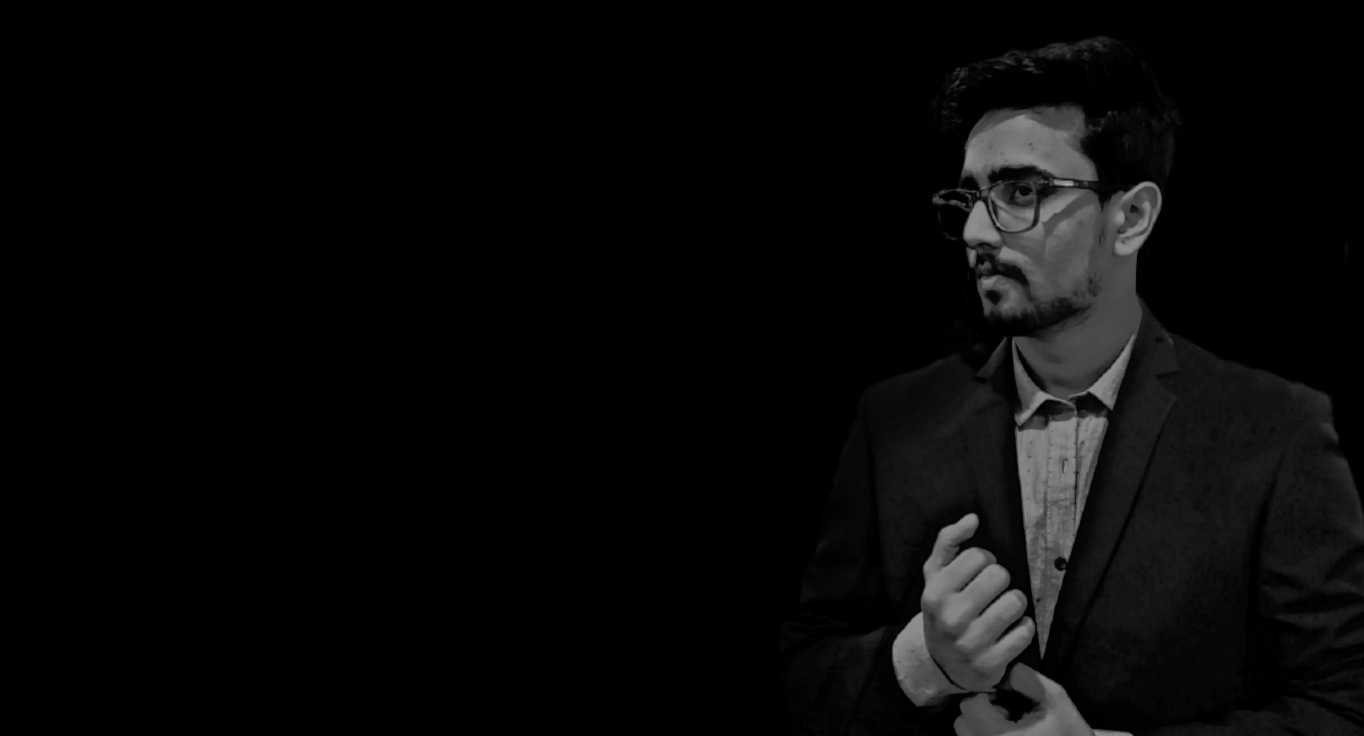
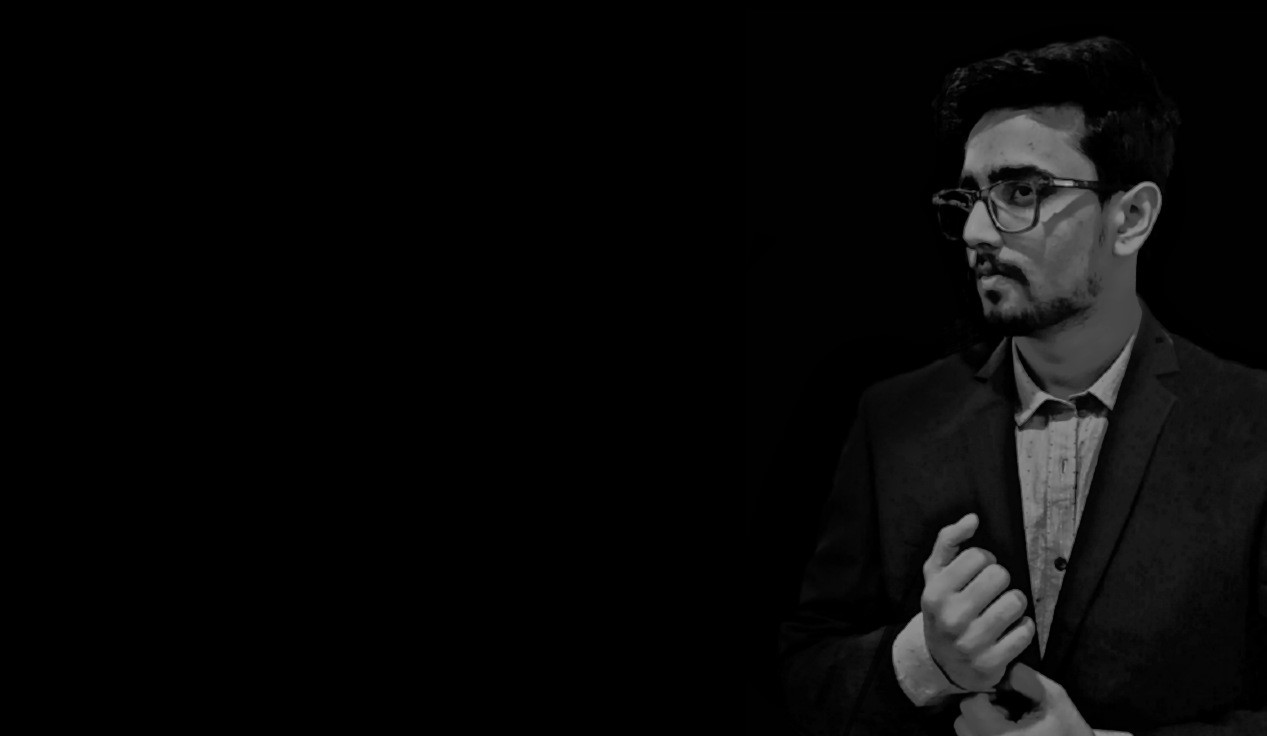
30/12/21

diff --git a/index.html b/index.html
@@ -60,7 +60,7 @@
         <a href="https://github.com/Atharva1802" class="twitter"><i class="bi bi-github"></i></a>
         <a href="https://discord.gg/CnmmhVcr" class="discord"><i class="bi bi-discord"></i></a>
         <a href="#" class="twitter"><i class="bi bi-twitter"></i></a>
-        <a href="#" class="instagram"><i class="bi bi-instagram"></i></a>
+        <a href="https://www.instagram.com/atharva1802/?utm_medium=copy_link" class="instagram"><i class="bi bi-instagram"></i></a>
         <a href="https://www.linkedin.com/in/atharva-bhawsar/" class="linkedin"><i class="bi bi-linkedin"></i></a>
       </div>
 
@@ -80,13 +80,13 @@
 
       <div class="row">
         <div class="col-lg-4" data-aos="fade-right">
-          <img src="assets/img/ab.jpg" class="img-fluid" alt="">
+          <img src="assets/img/me3.jpg" class="img-fluid" alt="">
         </div>
         <div class="col-lg-8 pt-4 pt-lg-0 content" data-aos="fade-left">
           <h3>UI/UX &amp; Junior Android Developer</h3>
           <p class="fst-italic">
-            I'm Atharva from India, I do Android Development and a little bit of Web Design, I really enjoy learning programming languages and frameworks. 
-            I also enjoy wireframing in UI, UX, and design in general. Looking forward to a valuable connect
+            Hi! I'm Atharva from India, I do Android Development and a little bit of Web Design, I really enjoy learning programming languages and frameworks. 
+            I also enjoy wireframing in UI, UX, and design in general. Looking forward to making a valuable connection.
           </p>
           <div class="row">
             <div class="col-lg-6">
@@ -106,9 +106,9 @@
             </div>
           </div>
           <p class="fst-italic">
-            I have a deep intrest in Android apps development and I'm actively looking for open source projects to work on,
+            I have a deep interest in Android apps development and I'm actively looking for open source projects to work on,
             I am very passionate about learning new technologies and softwares, and also I love to meet and connect with new people and
-            interact with them in a healthy progressive way.
+            interact with them in a healthy progressive way and try to learn more from them. 
           </p>
         </div>
       </div>
@@ -143,6 +143,12 @@
               <div class="progress-bar" role="progressbar" aria-valuenow="90" aria-valuemin="0" aria-valuemax="100"></div>
             </div>
           </div>
+          <div class="progress">
+            <span class="skill">Git <i class="val">80%</i></span>
+            <div class="progress-bar-wrap">
+              <div class="progress-bar" role="progressbar" aria-valuenow="80" aria-valuemin="0" aria-valuemax="100"></div>
+            </div>
+          </div>
 
           <div class="progress">
             <span class="skill">C/C++ <i class="val">70%</i></span>
@@ -168,11 +174,19 @@
               <div class="progress-bar" role="progressbar" aria-valuenow="80" aria-valuemin="0" aria-valuemax="100"></div>
             </div>
           </div>
+          
 
           <div class="progress">
             <span class="skill">WordPress/CMS <i class="val">95%</i></span>
             <div class="progress-bar-wrap">
               <div class="progress-bar" role="progressbar" aria-valuenow="95" aria-valuemin="0" aria-valuemax="100"></div>
+            </div>
+          </div>
+
+          <div class="progress">
+            <span class="skill">Adobe XD / Figma<i class="val">80%</i></span>
+            <div class="progress-bar-wrap">
+              <div class="progress-bar" role="progressbar" aria-valuenow="80" aria-valuemin="0" aria-valuemax="100"></div>
             </div>
           </div>
 
@@ -359,7 +373,7 @@
             <h4>St. Mary's Convent Senior Secondary School, Ujjain, MP.</h4>
             <h5>2018 - 2020</h5>
             <p><em>Scored 91.7% in 12th Standard (Science with Mathematics) (CBSE)</em></p>
-            <p>I have completed my senior secondary education with subjects Physics, Chemistry, Mathematics, and English from St. Mary's Convent (CBSE), Ujjain, MP. This has been a great learning experienceand a head start to my 
+            <p>I have completed my senior secondary education with subjects Physics, Chemistry, Mathematics, and English from St. Mary's Convent (CBSE), Ujjain, MP. This has been a great learning experience and a head start to my 
               professional life.
             </p>
           </div>
@@ -393,13 +407,13 @@
             <p>
               <ul>
                 <li>Designed Websites for medical professionals.</li>
-                <li>Marketing of websites through SEO and several techniques.</li>
+                <li>Marketing of websites through SEO and several other marketing techniques.</li>
                 <li>Provided digital consultation and technical assistance to medical professionals.</li>
               </ul>
             </p>
           </div>
           <div class="resume-item">
-            <h4>Developer Student Club</h4>
+            <h4>Developers Student Club</h4>
             <h5>2020 - 2021</h5>
             <p><em>DSC AI/ML club member.</em></p>
             <p>
@@ -417,7 +431,7 @@
             <p><em></em></p>
             <p>
               <ul>
-                <li>Learned to use and implementseveral methods of problem solving through C and Python</li>
+                <li>Learned to use and implement several methods of problem solving through C and Python</li>
                 <li>Managed to solve several problem sets requiring good understanding of data structures and algorithms</li>
               </ul>
             </p>
@@ -461,7 +475,7 @@
               <a href="https://github.com/Atharva1802" class="twitter"><i class="bi bi-github"></i></a>
               <a href="https://discord.gg/CnmmhVcr" class="discord"><i class="bi bi-discord"></i></a>
               <a href="#" class="twitter"><i class="bi bi-twitter"></i></a>
-              <a href="#" class="instagram"><i class="bi bi-instagram"></i></a>
+              <a href="https://www.instagram.com/atharva1802/?utm_medium=copy_link" class="instagram"><i class="bi bi-instagram"></i></a>
               <a href="https://www.linkedin.com/in/atharva-bhawsar/" class="linkedin"><i class="bi bi-linkedin"></i></a>
             </div>
           </div>

diff --git a/assets/css/style.css b/assets/css/style.css
@@ -18,7 +18,7 @@ body {
 body::before {
   content: "";
   position: fixed;
-  background: #040404 url("../img/bg.jpg") top right no-repeat;
+  background: #040404 url("../img/bg1.jpg") top right no-repeat;
   background-size: cover;
   left: 0;
   right: 0;
@@ -234,13 +234,7 @@ h1, h2, h3, h4, h5, h6 {
 }
 
 @media (max-width: 991px) {
-  .mobile-nav-toggle {
-    display: block;
-  }
-
-  .navbar ul {
-    display: none;
-  }
+  
 }
 .navbar-mobile {
   position: fixed;
